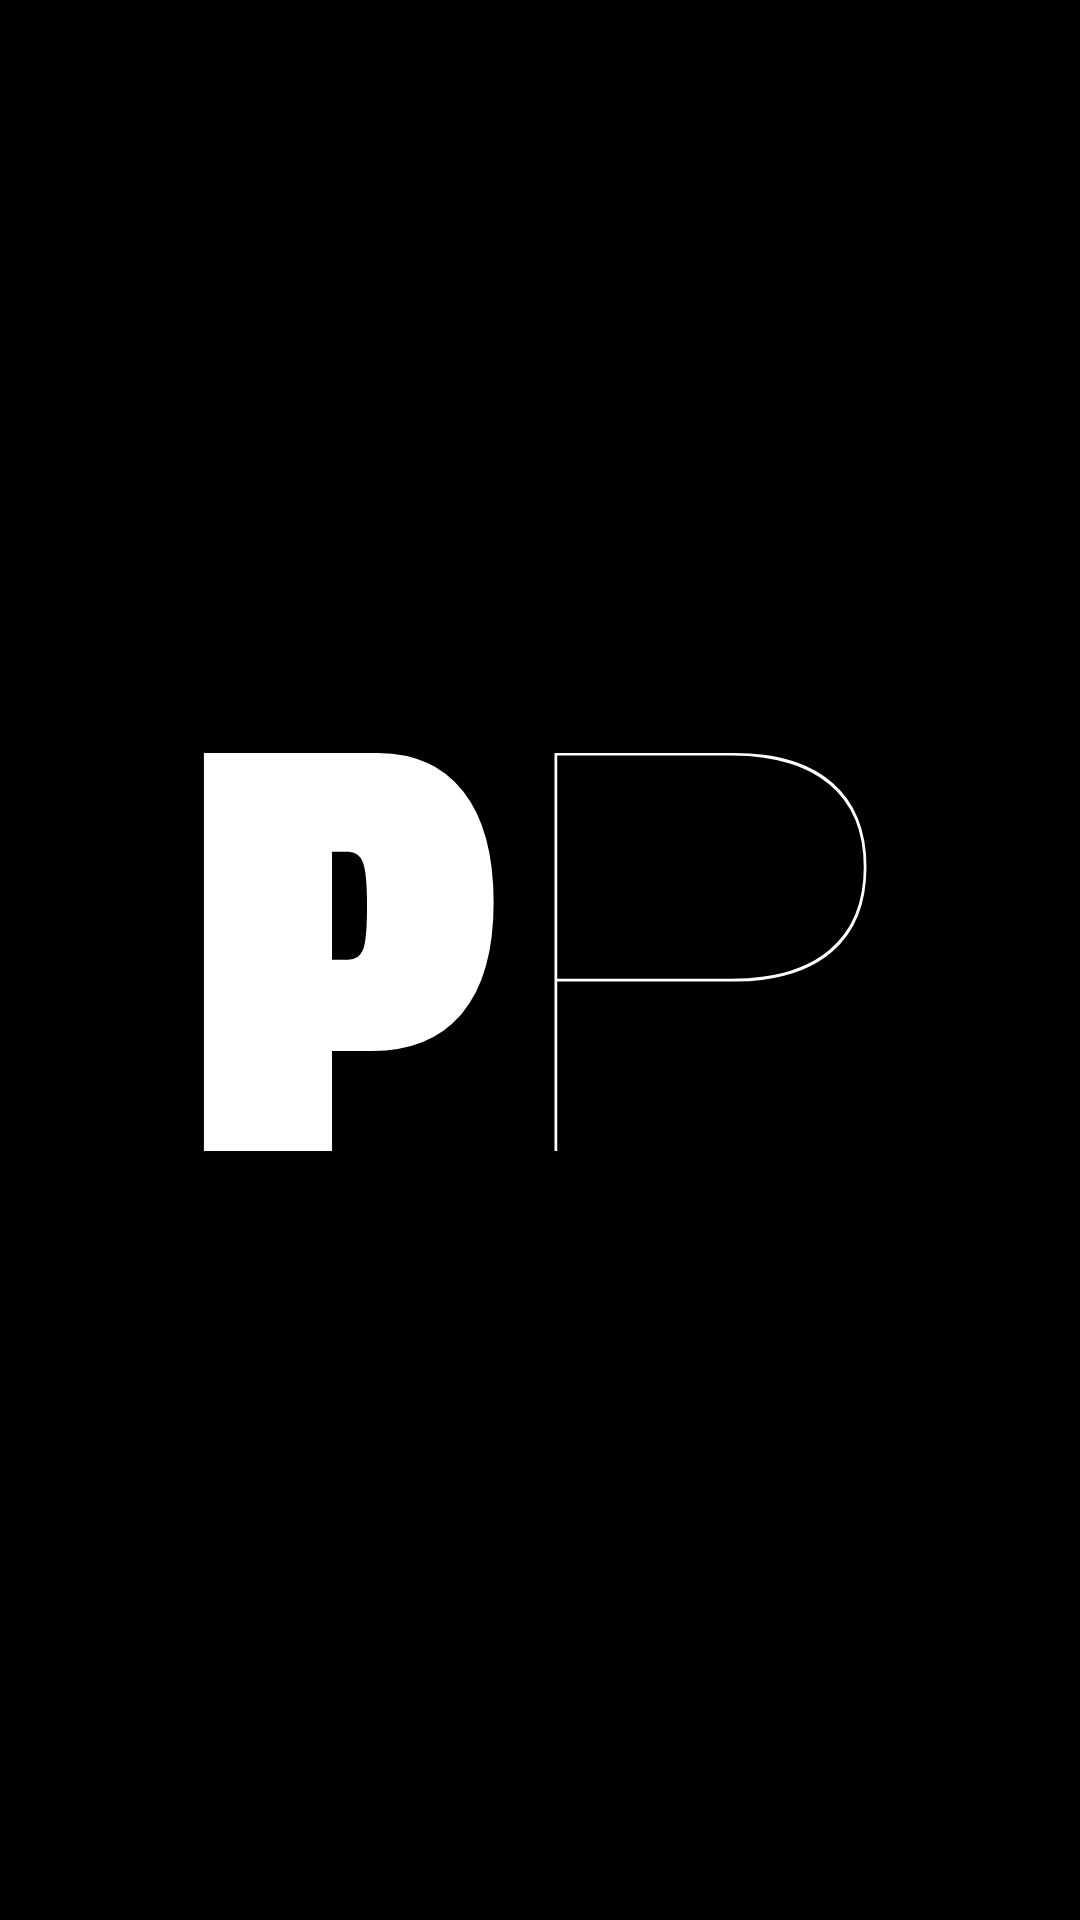
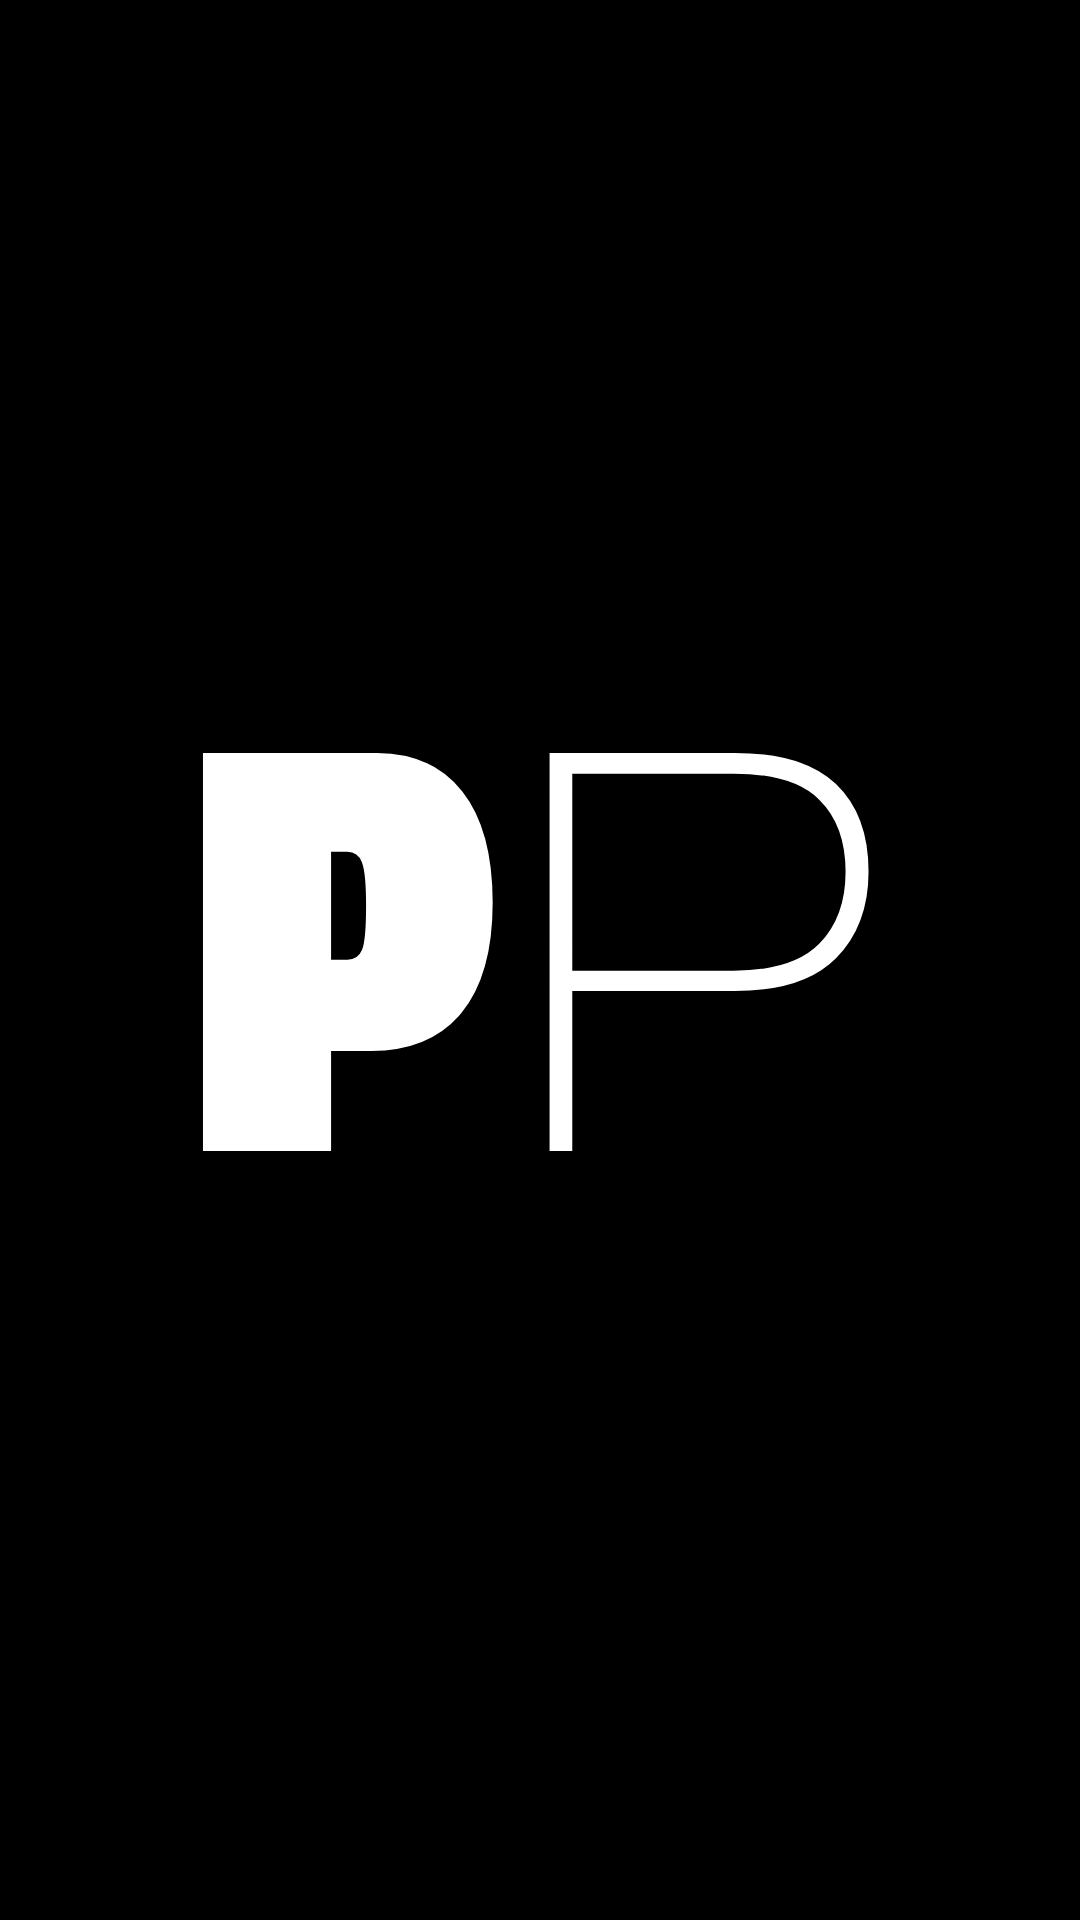
..

Changed region(s): [[0.4889, 0.375, 0.825, 0.5938]]

diff --git a/instagram/carruseles/carrusel.html b/instagram/carruseles/carrusel.html
@@ -55,7 +55,7 @@
 
   /* text */
   .copy{font-family:'Roboto Flex';font-size:64px;line-height:1.08;font-variation-settings:"wght" 380,"wdth" 100,"opsz" 144;letter-spacing:-.01em}
-  .copy em{font-style:normal;font-variation-settings:"wght" 120,"wdth" 100,"opsz" 144}
+  .copy em{font-style:normal;font-variation-settings:"wght" 320,"wdth" 100,"opsz" 144}
   .empty{width:100%;height:520px;border:1px dashed rgba(255,255,255,.35);display:flex;align-items:center;justify-content:center}
 
   /* end */
@@ -71,13 +71,18 @@ function prng(seed){return()=>{seed=(seed+0x6d2b79f5)|0;let t=Math.imul(seed^(se
 function data(seed,n){const r=prng(hash(String(seed)));return Array.from({length:n},()=>r());}
 // Misma regla que la firma y la portada: una letra fina (la de dato más bajo), el resto pesa y se ensancha según el dato.
 // fixedW: [ancho de la fina, ancho de las que pesan], fijo (en los números, para que se lean como uno solo).
-function letters(word,seed,thinW,fixedW){
+// Peso de la letra fina: más bajo que esto ya no se lee.
+const THIN=320;
+function letters(word,seed,thinW,fixedW,thinAt){
   const L=[...word], d=data(seed,L.length*2), first=d.slice(0,L.length);
-  const thin=first.indexOf(Math.min(...first.filter((_,i)=>L[i]!==' ')));
+  const thin=thinAt??first.indexOf(Math.min(...first.filter((_,i)=>L[i]!==' ')));
   return L.map((ch,i)=>{const s=document.createElement('span');s.textContent=ch===' '?' ':ch;
     const w=i===thin?thinW:500+d[i]*500, wd=fixedW?fixedW[i===thin?0:1]:40+d[i+L.length]*111;
     s.style.fontVariationSettings=`"wght" ${Math.round(w)}, "wdth" ${Math.round(wd)}, "opsz" 144`;return s;});
 }
+// Portada: con la regla, o pareja (even) cuando el proyecto es de un cliente y el nombre se respeta tal cual.
+const coverLetters=c=>c.even?[...c.t].map(ch=>{const s=document.createElement('span');s.textContent=ch;
+  s.style.fontVariationSettings=`"wght" 800, "wdth" 100, "opsz" 144`;return s;}):letters(c.t,c.t,c.thinW??THIN,null,c.thin);
 const el=(tag,cls,html)=>{const e=document.createElement(tag);if(cls)e.className=cls;if(html!=null)e.innerHTML=html;return e;};
 const img=src=>{const f=el('div','frame');const i=new Image();i.src=`capturas/${src}.webp`;f.append(i);return f;};
 // Palabra suelta con la regla, a un tamaño que entre en `width`.
@@ -92,15 +97,15 @@ C.slides.forEach((s,idx)=>{
   const body=el('div','body');
   const foot=el('div');
 
-  if(s.type==='cover'){const b=el('div','big cover-t');const sp=el('span');letters(s.t,s.t,120).forEach(x=>sp.append(x));b.append(sp);body.append(b);}
+  if(s.type==='cover'){const b=el('div','big cover-t');const sp=el('span');coverLetters(s).forEach(x=>sp.append(x));b.append(sp);body.append(b);}
   if(s.type==='shot')[].concat(s.img).forEach(i=>body.append(img(i)));
   if(s.type==='phones'){s.imgs.forEach(i=>body.append(img(i)));if(s.imgs.length===2)post.classList.add('two');}
-  if(s.type==='number'){body.append(fit(s.value,seed,100,s.value.length>1?760:520,820,[100,50]));
+  if(s.type==='number'){body.append(fit(s.value,seed,THIN,s.value.length>1?760:520,820,[100,50]));
     const l=el('div','lines mono');(s.lines||[]).forEach(t=>l.append(el('span',null,t)));body.append(l);}
   if(s.type==='flow'){
     const w=s.steps.map((_,i)=>data(seed,s.steps.length)[i]);const thin=w.indexOf(Math.min(...w));
     s.steps.forEach((t,i)=>{const r=el('div','step');r.append(el('span','mono i',String(i+1).padStart(2,'0')));
-      const word=el('span','w',t);const wd=i===thin?120:380+w[i]*300;
+      const word=el('span','w',t);const wd=i===thin?THIN:380+w[i]*300;
       word.style.fontVariationSettings=`"wght" ${Math.round(wd)}, "wdth" ${i===thin?100:Math.round(70+w[i]*40)}, "opsz" 144`;r.append(word);
       if(s.side&&s.side.at===i){const sd=el('div','side mono');sd.append(el('i'));s.side.steps.forEach(x=>sd.append(el('span',null,x)));r.append(sd);}
       body.append(r);});}
@@ -116,7 +121,7 @@ Promise.all([document.fonts.ready,...[...document.images].map(i=>i.decode().catc
   // Portadas: todas al mismo tamaño, el más grande en el que entra la palabra más ancha de todos los carruseles.
   const probe=el('div','big');probe.style.cssText='position:absolute;visibility:hidden;font-size:100px';document.body.append(probe);
   const widest=Math.max(...Object.values(window.CARRUSELES).map(c=>c.slides.find(x=>x.type==='cover')).filter(Boolean).map(c=>{
-    probe.innerHTML='';const sp=el('span');letters(c.t,c.t,120).forEach(x=>sp.append(x));probe.append(sp);return sp.getBoundingClientRect().width;}));
+    probe.innerHTML='';const sp=el('span');coverLetters(c).forEach(x=>sp.append(x));probe.append(sp);return sp.getBoundingClientRect().width;}));
   probe.remove();
   const coverFs=Math.min(100*952/widest,640);
   document.querySelectorAll('.cover-t').forEach(b=>b.style.fontSize=coverFs+'px');

diff --git a/instagram/carruseles/data.js b/instagram/carruseles/data.js
@@ -1,6 +1,6 @@
 // Carruseles de proyectos para @l20n.archive (en exploración).
 // Cada slide tiene un tipo:
-//   cover  → { t: título gigante }
+//   cover  → { t: título gigante, even?: true, thin?: i, thinW?: n } even: todas las letras con el mismo peso (clientes); thin: qué letra va fina, thinW: su peso
 //   shot   → { img: una captura o varias apiladas, label }
 //   phones → { imgs: [2 o 3 capturas mobile], label }
 //   number → { value, label, lines?: [] }                    un dato grande con la regla de la firma
@@ -10,25 +10,24 @@
 window.CARRUSELES = {
   brief: {
     slides: [
-      { type: 'cover', t: 'brief.' },
+      { type: 'cover', t: 'Brief.', thin: 4, thinW: 460 },
       { type: 'shot', img: ['brief-d-0', 'brief-d-1'], label: 'front · escritorio' },
       { type: 'phones', imgs: ['brief-m-0', 'brief-m-1', 'brief-m-3'], label: 'front · celular' },
       { type: 'number', value: '39', label: 'fuentes', lines: ['medios de acá y de afuera', 'cada nota lleva al original'] },
       {
         type: 'flow', label: 'pipeline',
-        steps: ['39 fuentes', 'normalizar', 'deduplicar', 'afuera el ruido', 'resumir y traducir', 'clasificar', 'brief.'],
-        side: { at: 6, steps: ['newsletter', 'a la mañana'] },
+        steps: ['39 fuentes', 'normalizar', 'deduplicar', 'afuera el ruido', 'resumir y traducir', 'clasificar', 'Brief.'],
       },
-      { type: 'number', value: '3', label: 'veces por día', lines: ['corre solo', 'nadie aprieta nada'] },
       { type: 'end', url: 'hibrief.site' },
     ],
   },
 
   compass: {
     slides: [
-      { type: 'cover', t: 'compass' },
+      { type: 'cover', t: 'Compass' },
       { type: 'shot', img: ['compass-d-0', 'compass-app'], label: 'landing · adentro' },
       { type: 'phones', imgs: ['compass-m-0', 'compass-m-1'], label: 'celular' },
+      { type: 'shot', img: 'compass-studio', label: 'studio' },
       { type: 'number', value: '6', label: 'módulos', lines: ['clientes', 'proyectos', 'board', 'finanzas', 'cuentas', 'docs'] },
       { type: 'end', url: 'compass-ps.vercel.app' },
     ],
@@ -36,12 +35,12 @@ window.CARRUSELES = {
 
   monteca: {
     slides: [
-      { type: 'cover', t: 'monteca' },
+      { type: 'cover', t: 'MonteCa', even: true },
       { type: 'shot', img: ['monteca-d-0', 'monteca-d-1'], label: 'front · escritorio' },
       { type: 'phones', imgs: ['monteca-m-0', 'monteca-m-1'], label: 'front · celular' },
       {
         type: 'flow', label: 'notificador',
-        steps: ['una vez por día', 'leer la base', '¿qué vence?', '¿ya se avisó?', 'email / whatsapp', 'resumen interno'],
+        steps: ['una vez por día', 'leer la base', 'qué vence?', 'ya se avisó?', 'email / whatsapp', 'resumen interno'],
       },
       { type: 'number', value: '4', label: 'avisos', lines: ['cuota por vencer', 'cuota vencida', 'póliza por vencer', 'póliza vencida'] },
       { type: 'number', value: '1', label: 'vez por canal', lines: ['nunca el mismo aviso dos veces'] },

diff --git a/instagram/carruseles/historias.html b/instagram/carruseles/historias.html
@@ -63,7 +63,7 @@ H.slides.forEach((s,idx)=>{
     // Dos trazos de la misma letra: uno fino y uno que pesa, encimados apenas corridos.
     const g=el('div','g');const a=el('span',null,s.g),b=el('span',null,s.g);
     a.style.fontVariationSettings='"wght" 900, "wdth" 60, "opsz" 144';
-    b.style.cssText='font-variation-settings:"wght" 100, "wdth" 151, "opsz" 144;margin-left:-.02em';
+    b.style.cssText='font-variation-settings:"wght" 320, "wdth" 151, "opsz" 144;margin-left:-.02em';
     g.append(a,b);post.append(g);document.body.append(post);return;
   }
   // Sin título fijo ni handle: arriba solo la bajada de la intro, si tiene.
@@ -71,15 +71,15 @@ H.slides.forEach((s,idx)=>{
   const body=el('div','body');
   const foot=el('div');
 
-  if(s.type==='intro') body.append(fit(s.t,s.t,120,952,520));
+  if(s.type==='intro') body.append(fit(s.t,s.t,320,952,520));
   if(s.type==='item'){
     if(s.img){const f=img(s.img);if(s.crop==='phone')f.classList.add('phone');body.append(f);body.append(el('span','n mono',s.n));}
-    else{const n=fit(s.n,seed,100,600,700);n.classList.add('num');body.append(n);}
-    body.append(fit(s.t,s.t,120,952,420));
+    else{const n=fit(s.n,seed,320,600,700);n.classList.add('num');body.append(n);}
+    body.append(fit(s.t,s.t,320,952,420));
     const l=el('div','lines mono');s.lines.forEach(t=>l.append(el('span',null,t)));body.append(l);
     if(s.de)body.append(el('div','de mono',`en: ${s.de.map(x=>`<b>${x}</b>`).join(' · ')}`));
   }
-  if(s.type==='cierre'){body.append(fit(s.t,s.t,120,952,420));
+  if(s.type==='cierre'){body.append(fit(s.t,s.t,320,952,420));
     const l=el('div','lines mono');s.lines.forEach(t=>l.append(el('span',null,t)));body.append(l);}
 
   post.append(top,body,foot);document.body.append(post);

diff --git a/src/lib/l20nConsole.js b/src/lib/l20nConsole.js
@@ -8,7 +8,7 @@ export function announceL20N() {
   if (w.__l20n) return;
   w.__l20n = true;
   console.log(
-    '%cL20N%c\n¿Mirando el código? Bien ahí.\n%s',
+    '%cL20N%c\nMirando el código? Bien ahí.\n%s',
     'font: 900 32px "Roboto Flex", system-ui, sans-serif',
     'font: 13px ui-monospace, monospace',
     SIGNATURE_URL,
